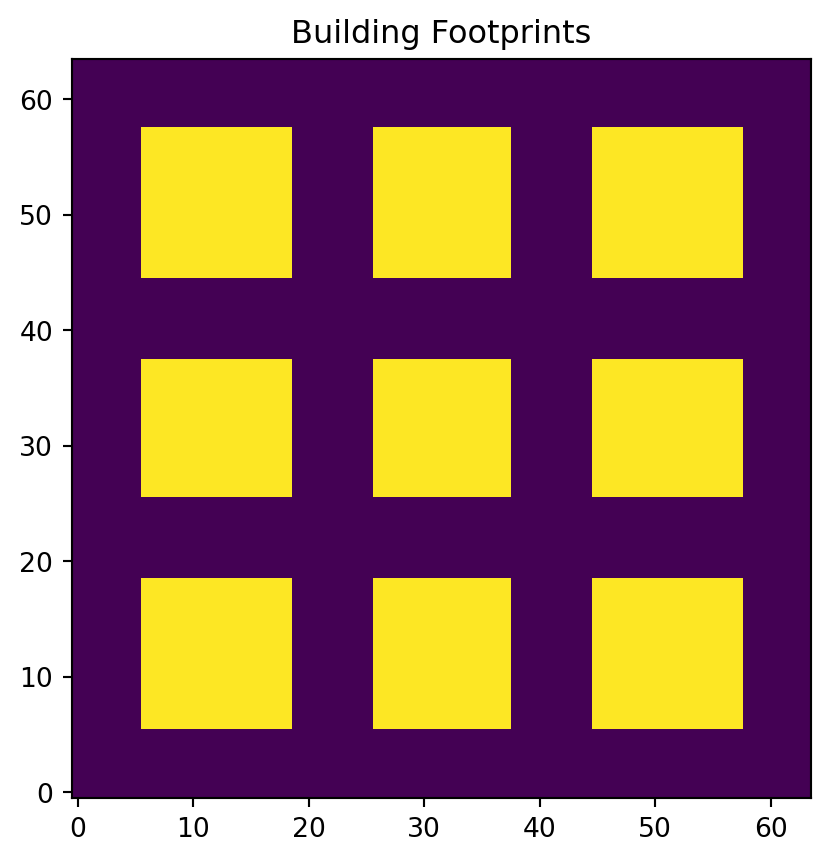
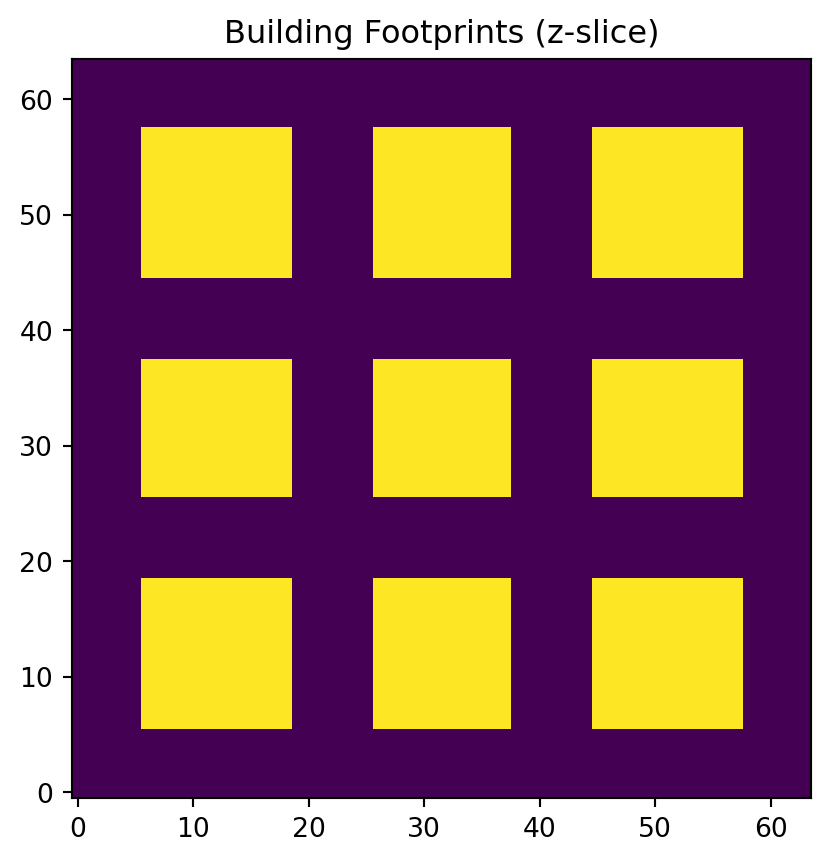
updated index

Changed region(s): [[0.2711, 0.0, 0.8133, 0.0603]]

diff --git a/index.html b/index.html
@@ -71,7 +71,7 @@ pre > code.sourceCode > span > a:first-child::before { text-decoration: underlin
 <link href="index_files/libs/quarto-html/quarto-syntax-highlighting-7f8f88aac4f3542376d5c11b86a4c14d.css" rel="stylesheet" id="quarto-text-highlighting-styles">
 <script src="index_files/libs/bootstrap/bootstrap.min.js"></script>
 <link href="index_files/libs/bootstrap/bootstrap-icons.css" rel="stylesheet">
-<link href="index_files/libs/bootstrap/bootstrap-138a6193a3bd40baf1e627da441a4734.min.css" rel="stylesheet" append-hash="true" id="quarto-bootstrap" data-mode="light">
+<link href="index_files/libs/bootstrap/bootstrap-8ffd5f67044e5306d9846f29df41dda5.min.css" rel="stylesheet" append-hash="true" id="quarto-bootstrap" data-mode="light">
 
   <script src="https://cdnjs.cloudflare.com/polyfill/v3/polyfill.min.js?features=es6"></script>
   <script defer="" src="https://cdn.jsdelivr.net/npm/mathjax@3/es5/tex-chtml-full.js" type="text/javascript"></script>
@@ -116,8 +116,13 @@ window.Quarto = {
   <li><a href="#introduction" id="toc-introduction" class="nav-link active" data-scroll-target="#introduction">Introduction</a></li>
   <li><a href="#theory" id="toc-theory" class="nav-link" data-scroll-target="#theory">Theory</a></li>
   <li><a href="#numerical-setup" id="toc-numerical-setup" class="nav-link" data-scroll-target="#numerical-setup">Numerical Setup</a></li>
-  <li><a href="#procedural-geometry" id="toc-procedural-geometry" class="nav-link" data-scroll-target="#procedural-geometry">Procedural Geometry</a></li>
-  <li><a href="#simulation-results" id="toc-simulation-results" class="nav-link" data-scroll-target="#simulation-results">Simulation Results</a></li>
+  <li><a href="#comparative-aerodynamic-study" id="toc-comparative-aerodynamic-study" class="nav-link" data-scroll-target="#comparative-aerodynamic-study">Comparative Aerodynamic Study</a>
+  <ul class="collapse">
+  <li><a href="#grid-layout-baseline" id="toc-grid-layout-baseline" class="nav-link" data-scroll-target="#grid-layout-baseline">1. Grid Layout (Baseline)</a></li>
+  <li><a href="#staggered-layout" id="toc-staggered-layout" class="nav-link" data-scroll-target="#staggered-layout">2. Staggered Layout</a></li>
+  <li><a href="#canyon-layout" id="toc-canyon-layout" class="nav-link" data-scroll-target="#canyon-layout">3. Canyon Layout</a></li>
+  <li><a href="#courtyard-layout" id="toc-courtyard-layout" class="nav-link" data-scroll-target="#courtyard-layout">4. Courtyard Layout</a></li>
+  </ul></li>
   <li><a href="#conclusion-pipeline" id="toc-conclusion-pipeline" class="nav-link" data-scroll-target="#conclusion-pipeline">Conclusion &amp; Pipeline</a></li>
   </ul>
 </nav>
@@ -146,7 +151,7 @@ window.Quarto = {
 
 <section id="introduction" class="level2">
 <h2 class="anchored" data-anchor-id="introduction">Introduction</h2>
-<p>Modern urban planning often inadvertently creates “wind canyons”, areas where building geometry accelerates wind, leading to dangerous gusts at the pedestrian level. This project utilizes <strong>Differentiable Physics</strong> to simulate 3D wind flow and pollutant dispersion, providing a tool to optimize building layouts for pedestrian comfort.</p>
+<p>Modern urban planning often inadvertently creates “wind canyons”—areas where building geometry accelerates wind, leading to dangerous gusts at the pedestrian level. This project utilizes <strong>Differentiable Physics</strong> to simulate 3D wind flow and pollutant dispersion, providing a tool to optimize building layouts for pedestrian comfort.</p>
 </section>
 <section id="theory" class="level2">
 <h2 class="anchored" data-anchor-id="theory">Theory</h2>
@@ -156,7 +161,7 @@ window.Quarto = {
 \]</span> <span class="math display">\[
 \nabla \cdot \mathbf{u} = 0
 \]</span></p>
-<p>Pollutant (e.g., <span class="math inline">\(CO_2\)</span>) transport is modeled with the advection-diffusion equation:</p>
+<p>Pollutant transport is modeled with the advection-diffusion equation:</p>
 <p><span class="math display">\[
 \frac{\partial c}{\partial t} + \mathbf{u} \cdot \nabla c = D \nabla^2 c + S
 \]</span></p>
@@ -164,38 +169,77 @@ window.Quarto = {
 <section id="numerical-setup" class="level2">
 <h2 class="anchored" data-anchor-id="numerical-setup">Numerical Setup</h2>
 <p>We employ a Cartesian grid, accelerated on Apple Silicon using the PyTorch backend via <a href="https://github.com/tum-pbs/PhiFlow">PhiFlow</a>.</p>
+<div id="setup" class="cell" data-execution_count="1">
+<details class="code-fold">
+<summary>Code</summary>
+<div class="code-copy-outer-scaffold"><div class="sourceCode cell-code" id="cb1"><pre class="sourceCode python code-with-copy"><code class="sourceCode python"><span id="cb1-1"><a href="#cb1-1" aria-hidden="true" tabindex="-1"></a><span class="im">from</span> phi.torch.flow <span class="im">import</span> <span class="op">*</span></span>
+<span id="cb1-2"><a href="#cb1-2" aria-hidden="true" tabindex="-1"></a><span class="im">from</span> src.simulation <span class="im">import</span> setup_simulation, step_simulation</span>
+<span id="cb1-3"><a href="#cb1-3" aria-hidden="true" tabindex="-1"></a><span class="im">from</span> src.geometry <span class="im">import</span> create_mask</span>
+<span id="cb1-4"><a href="#cb1-4" aria-hidden="true" tabindex="-1"></a><span class="im">import</span> matplotlib.pyplot <span class="im">as</span> plt</span>
+<span id="cb1-5"><a href="#cb1-5" aria-hidden="true" tabindex="-1"></a></span>
+<span id="cb1-6"><a href="#cb1-6" aria-hidden="true" tabindex="-1"></a><span class="co"># Simulation parameters</span></span>
+<span id="cb1-7"><a href="#cb1-7" aria-hidden="true" tabindex="-1"></a>res <span class="op">=</span> (<span class="dv">64</span>, <span class="dv">64</span>, <span class="dv">16</span>)</span>
+<span id="cb1-8"><a href="#cb1-8" aria-hidden="true" tabindex="-1"></a>domain_size <span class="op">=</span> (<span class="dv">200</span>, <span class="dv">200</span>, <span class="dv">50</span>)</span></code></pre></div><button title="Copy to Clipboard" class="code-copy-button"><i class="bi"></i></button></div>
+</details>
+</div>
 </section>
-<section id="procedural-geometry" class="level2">
-<h2 class="anchored" data-anchor-id="procedural-geometry">Procedural Geometry</h2>
-<p>We generate a 3x3 building grid programmatically, allowing for rapid iteration on urban layouts.</p>
+<section id="comparative-aerodynamic-study" class="level2">
+<h2 class="anchored" data-anchor-id="comparative-aerodynamic-study">Comparative Aerodynamic Study</h2>
+<p>We tested four urban archetypes. Each animation displays three panels: <strong>Wind Speed (m/s)</strong> with streamlines, <strong>Vorticity (1/s)</strong> (showing eddies), and <strong>Smoke Concentration</strong>.</p>
+<p><em>Note: Wind enters from the <strong>Left (West)</strong>. Pollutant is introduced along the Western boundary, advecting across the city.</em></p>
 <div id="cell-geometry" class="cell" data-execution_count="2">
 <details class="code-fold">
 <summary>Code</summary>
-<div class="code-copy-outer-scaffold"><div class="sourceCode cell-code" id="cb1"><pre class="sourceCode python code-with-copy"><code class="sourceCode python"><span id="cb1-1"><a href="#cb1-1" aria-hidden="true" tabindex="-1"></a>obstacle_mask <span class="op">=</span> create_mask(domain_size, res, layout_type<span class="op">=</span><span class="st">"grid"</span>)</span>
-<span id="cb1-2"><a href="#cb1-2" aria-hidden="true" tabindex="-1"></a><span class="co"># Visualization of the obstacle layout</span></span>
-<span id="cb1-3"><a href="#cb1-3" aria-hidden="true" tabindex="-1"></a>plt.imshow(obstacle_mask.values.numpy(<span class="st">'x,y,z'</span>)[:, :, <span class="dv">2</span>].T, origin<span class="op">=</span><span class="st">'lower'</span>)</span>
-<span id="cb1-4"><a href="#cb1-4" aria-hidden="true" tabindex="-1"></a>plt.title(<span class="st">"Building Footprints"</span>)</span>
-<span id="cb1-5"><a href="#cb1-5" aria-hidden="true" tabindex="-1"></a>plt.show()</span></code></pre></div><button title="Copy to Clipboard" class="code-copy-button"><i class="bi"></i></button></div>
+<div class="code-copy-outer-scaffold"><div class="sourceCode cell-code" id="cb2"><pre class="sourceCode python code-with-copy"><code class="sourceCode python"><span id="cb2-1"><a href="#cb2-1" aria-hidden="true" tabindex="-1"></a>obstacle_mask <span class="op">=</span> create_mask(domain_size, res, layout_type<span class="op">=</span><span class="st">"grid"</span>)</span>
+<span id="cb2-2"><a href="#cb2-2" aria-hidden="true" tabindex="-1"></a>plt.imshow(obstacle_mask.values.numpy(<span class="st">'x,y,z'</span>)[:, :, <span class="dv">2</span>].T, origin<span class="op">=</span><span class="st">'lower'</span>)</span>
+<span id="cb2-3"><a href="#cb2-3" aria-hidden="true" tabindex="-1"></a>plt.title(<span class="st">"Building Footprints (z-slice)"</span>)</span>
+<span id="cb2-4"><a href="#cb2-4" aria-hidden="true" tabindex="-1"></a>plt.show()</span></code></pre></div><button title="Copy to Clipboard" class="code-copy-button"><i class="bi"></i></button></div>
 </details>
 <div class="cell-output cell-output-display">
 <div id="geometry" class="quarto-figure quarto-figure-center anchored">
 <figure class="figure">
 <p><img src="index_files/figure-html/geometry-output-1.png" width="415" height="431" class="figure-img"></p>
-<figcaption>Building obstacle mask (z-slice)</figcaption>
+<figcaption>Example: Grid Layout building footprints</figcaption>
 </figure>
 </div>
 </div>
 </div>
-</section>
-<section id="simulation-results" class="level2">
-<h2 class="anchored" data-anchor-id="simulation-results">Simulation Results</h2>
-<p>The simulation runs for 50 steps, capturing the wind flow around the buildings and the dispersion of a pollutant source located at the street level.</p>
+<section id="grid-layout-baseline" class="level3">
+<h3 class="anchored" data-anchor-id="grid-layout-baseline">1. Grid Layout (Baseline)</h3>
 <div class="quarto-figure quarto-figure-center">
 <figure class="figure">
-<p><img src="assets/simulation.gif" class="img-fluid figure-img"></p>
-<figcaption>Urban Wind Canyon Simulation</figcaption>
+<p><img src="assets/grid_sim.gif" class="img-fluid figure-img"></p>
+<figcaption>Grid Comparison</figcaption>
 </figure>
 </div>
+</section>
+<section id="staggered-layout" class="level3">
+<h3 class="anchored" data-anchor-id="staggered-layout">2. Staggered Layout</h3>
+<div class="quarto-figure quarto-figure-center">
+<figure class="figure">
+<p><img src="assets/staggered_sim.gif" class="img-fluid figure-img"></p>
+<figcaption>Staggered Comparison</figcaption>
+</figure>
+</div>
+</section>
+<section id="canyon-layout" class="level3">
+<h3 class="anchored" data-anchor-id="canyon-layout">3. Canyon Layout</h3>
+<div class="quarto-figure quarto-figure-center">
+<figure class="figure">
+<p><img src="assets/canyon_sim.gif" class="img-fluid figure-img"></p>
+<figcaption>Canyon Comparison</figcaption>
+</figure>
+</div>
+</section>
+<section id="courtyard-layout" class="level3">
+<h3 class="anchored" data-anchor-id="courtyard-layout">4. Courtyard Layout</h3>
+<div class="quarto-figure quarto-figure-center">
+<figure class="figure">
+<p><img src="assets/courtyard_sim.gif" class="img-fluid figure-img"></p>
+<figcaption>Courtyard Comparison</figcaption>
+</figure>
+</div>
+</section>
 </section>
 <section id="conclusion-pipeline" class="level2">
 <h2 class="anchored" data-anchor-id="conclusion-pipeline">Conclusion &amp; Pipeline</h2>